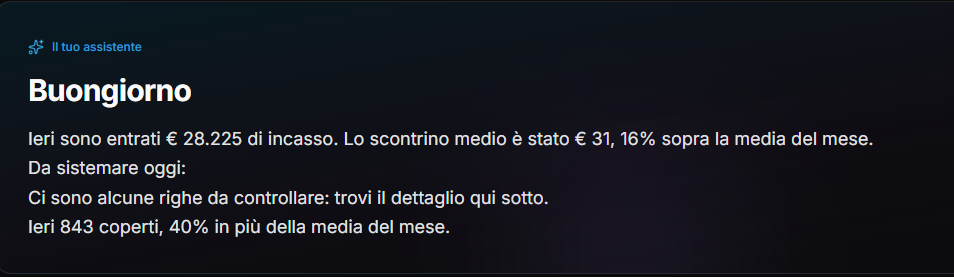
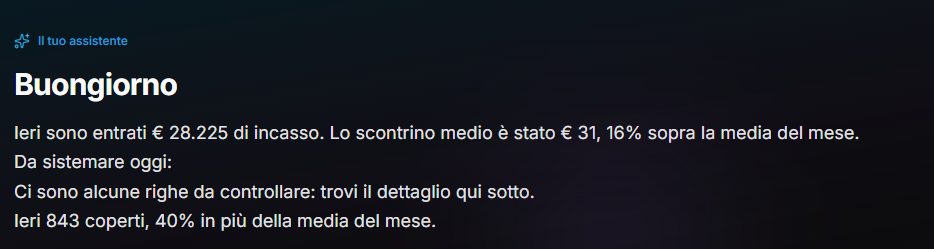
fix(landing): animazioni fluide su mobile, dissolvenza piu' marcata + sui prezzi, snap morbido, briefing zoomato
MOBILE:
- Reveal: IntersectionObserver ora osserva il contenitore che scrolla
  (data-scroll-root), non il viewport: su mobile le animazioni partivano tardi/mai
  perche' lo scroll-snap vive dentro quel div. Ora la dissolvenza si vede col dito.
- snap: PROXIMITY su mobile (scorrimento fluido, niente "strappo" al ricentraggio
  di mandatory), MANDATORY da sm in su (desktop, dove l'aggancio preciso va bene);
  +overscroll-y-contain

DISSOLVENZA:
- stati nascosti piu' ampi (zoom scale 0.94->0.88, risalita maggiore): entrata piu'
  percepibile su PC e mobile
- card prezzi ora con variant zoom: animano come le immagini (era assente)

BRIEFING: crop piu' stretto (ratio 3.44->3.75) per zoomare il contenuto mantenendo
la frase lunga intera; backup in foto-landing-page/hero-briefing-ORIG.png

Changed region(s): [[0.0, 0.4498, 0.9315, 0.9277], [0.0, 0.2811, 0.2173, 0.4217], [0.0, 0.1406, 0.1552, 0.1968]]

diff --git a/apps/web/src/components/landing/landing-page.tsx b/apps/web/src/components/landing/landing-page.tsx
@@ -126,11 +126,16 @@ export function LandingPage() {
   const s = LANDING.scene;
 
   return (
-    // Contenitore di scroll a tutta altezza con snap MANDATORY: ogni scena si
-    // aggancia al centro del viewport, niente piu' stop a meta' negli spazi neri.
-    // E' il div stesso a scrollare (h-dvh overflow-y-scroll), cosi' lo snap e'
-    // affidabile su mobile. prefers-reduced-motion disattiva lo smooth/snap.
-    <div className="h-dvh snap-y snap-mandatory overflow-y-scroll scroll-smooth bg-background text-foreground motion-reduce:snap-none motion-reduce:scroll-auto">
+    // Contenitore di scroll a tutta altezza. data-scroll-root: lo usa Reveal come
+    // root dell'IntersectionObserver (le animazioni vivono dentro QUESTO div, non
+    // nel viewport). Snap: PROXIMITY su mobile (lo scorrimento col dito resta
+    // fluido e non viene "strappato" al ricentraggio di mandatory) e MANDATORY da
+    // sm in su (desktop, dove l'aggancio preciso funziona bene). overscroll-contain
+    // evita il rimbalzo della pagina sotto. reduced-motion disattiva snap/smooth.
+    <div
+      data-scroll-root
+      className="h-dvh snap-y snap-proximity overflow-y-scroll overscroll-y-contain scroll-smooth bg-background text-foreground sm:snap-mandatory motion-reduce:snap-none motion-reduce:scroll-auto"
+    >
       {/* JSON-LD per i motori (invisibile): Organization + SoftwareApplication + FAQ */}
       <StructuredData />
       <main>
@@ -313,10 +318,12 @@ export function LandingPage() {
                 {LANDING.piani.sottotitolo}
               </p>
             </Reveal>
-            {/* Card tutte uguali: nessun piano in risalto (cambia solo il volume). */}
+            {/* Card tutte uguali: nessun piano in risalto (cambia solo il volume).
+                variant zoom: entrano con la stessa dissolvenza percepibile delle
+                immagini (richiesto: animazione anche sui blocchi prezzi). */}
             <div className="mt-12 grid gap-6 md:grid-cols-3">
               {LANDING.piani.lista.map((p, i) => (
-                <Reveal key={p.nome} delay={i * 100}>
+                <Reveal key={p.nome} delay={i * 120} variant="zoom">
                   <div className="relative flex h-full flex-col items-center rounded-2xl border border-primary bg-card/60 p-6 text-center ring-1 ring-primary/30">
                     <p className="text-sm font-semibold uppercase tracking-wide text-muted-foreground">
                       {p.nome}

diff --git a/apps/web/src/components/landing/scene-kit.tsx b/apps/web/src/components/landing/scene-kit.tsx
@@ -14,8 +14,10 @@ import { cn } from "@/lib/utils";
 type RevealVariant = "up" | "zoom";
 
 const REVEAL_HIDDEN: Record<RevealVariant, string> = {
-  up: "translate-y-8 opacity-0",
-  zoom: "translate-y-10 scale-[0.94] opacity-0",
+  up: "translate-y-10 opacity-0",
+  // dissolvenza immagini piu' marcata: scala piu' bassa + risalita maggiore, cosi'
+  // l'entrata si percepisce bene (richiesto su PC e mobile).
+  zoom: "translate-y-14 scale-[0.88] opacity-0",
 };
 
 export function Reveal({
@@ -40,6 +42,12 @@ export function Reveal({
       setVisibile(true);
       return;
     }
+    // root = il contenitore che scrolla davvero (div h-dvh overflow-y-scroll), non
+    // il viewport: su mobile lo scroll-snap vive dentro quel div, e osservare la
+    // FINESTRA faceva partire l'animazione tardi/mai (sembrava "senza dissolvenza").
+    // rootMargin negativo in basso: la scena si rivela quando entra davvero, non al
+    // primo pixel. threshold 0 + rootMargin = scatto affidabile anche col dito.
+    const scroller = el.closest<HTMLElement>("[data-scroll-root]") ?? null;
     const io = new IntersectionObserver(
       ([e]) => {
         if (e.isIntersecting) {
@@ -47,7 +55,7 @@ export function Reveal({
           io.disconnect();
         }
       },
-      { threshold: 0.2 },
+      { root: scroller, threshold: 0.01, rootMargin: "0px 0px -12% 0px" },
     );
     io.observe(el);
     return () => io.disconnect();